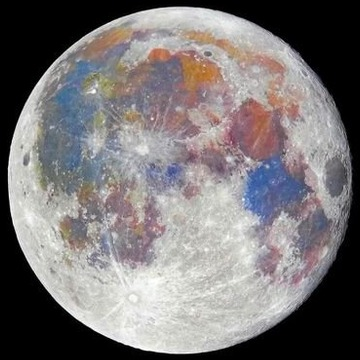
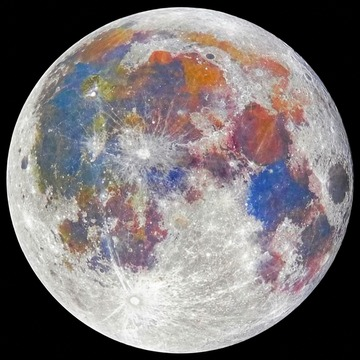
Use the colourful Moon as the starter picture and colour the sidebar knob ring
The starter Moon is replaced by a centred colourful moon; libraries that held the old one get the new one once. The ring on the sidebar knob badge always shows the bar colour.

diff --git a/revo1/screensaver.py b/revo1/screensaver.py
@@ -36,10 +36,12 @@ VIDEO_FPS = 10
 MAX_CLIP_SECONDS = 20
 THUMB_SIZE = 96
 
-# Pictures that come with Revo1, already centred on the round screen. Each is
-# offered once: a new library starts with them, and one that is removed stays
-# removed.
-STARTER_PICTURES = (("Moon", Path(__file__).with_name("assets") / "moon.jpg"),)
+# Pictures that come with Revo1, already centred on the round screen, as
+# (key, name, file). Each key is offered once: a new library starts with them,
+# and one that is removed stays removed. A replaced picture gets a new key so
+# existing libraries are offered it too.
+STARTER_PICTURES = (("moon-colour", "Moon",
+                     Path(__file__).with_name("assets") / "moon.jpg"),)
 
 IMAGE_TYPES = (".jpg", ".jpeg", ".png", ".bmp", ".webp", ".gif", ".tif", ".tiff")
 VIDEO_TYPES = (".mp4", ".mov", ".avi", ".mkv", ".webm", ".m4v", ".wmv")
@@ -271,14 +273,14 @@ class Library:
         if not isinstance(offered, list):
             offered = []
         added = False
-        for name, path in starters:
-            if name in offered:
+        for key, name, path in starters:
+            if key in offered:
                 continue
             try:
                 self.add(path, name=name)
             except (MediaError, OSError):
                 continue
-            offered.append(name)
+            offered.append(key)
             added = True
         if added:
             record.write_text(json.dumps(offered), encoding="utf-8")

diff --git a/revo1/app.py b/revo1/app.py
@@ -805,7 +805,7 @@ class App(DashboardPage, ScreensaverPage, GamesPage, WirelessTab):
 
     def paint_knob_badge(self, image, cx, cy, radius):
         """A miniature of the knob: a light bezel round a dark screen, whose
-        ring lights up while the app is connected to it."""
+        ring always shows the bar colour of the current screen."""
         k = self.kit
         factor = 4
         size = k.px(radius * 2) * factor
@@ -825,8 +825,7 @@ class App(DashboardPage, ScreensaverPage, GamesPage, WirelessTab):
         pad = size / 2 - ring * unit
         box = (pad, pad, size - pad, size - pad)
         draw.arc(box, 135, 405, fill=(0x3A, 0x3A, 0x46), width=round(2.2 * unit))
-        if self.connected:
-            draw.arc(box, 135, 315, fill=ui.rgb(ui.OK_GREEN), width=round(2.2 * unit))
+        draw.arc(box, 135, 315, fill=tuple(self.accent(self.mode)), width=round(2.2 * unit))
         badge = badge.resize((size // factor, size // factor), Image.LANCZOS)
         image.paste(badge, (k.px(cx - radius), k.px(cy - radius)), badge)
 
@@ -841,6 +840,8 @@ class App(DashboardPage, ScreensaverPage, GamesPage, WirelessTab):
     def refresh_nav(self):
         for button in self.nav.values():
             button.refresh()
+        if hasattr(self, "identity"):
+            self.refresh_identity()
 
     # ----- settings actions ---------------------------------------------
 

diff --git a/CHANGELOG.md b/CHANGELOG.md
@@ -8,9 +8,12 @@
   no longer includes the Wi-Fi and TCP/IP stack, and the knob erases the
   network name and password that earlier firmware saved. The app drops its
   saved Wi-Fi network and knob address too.
-- The screensaver library now starts with a built-in **Moon** picture,
-  centred to fill the round screen. Existing libraries get it once; removing
-  it keeps it removed.
+- The screensaver library now starts with a built-in colourful **Moon**
+  picture, centred to fill the round screen. It replaces the earlier moon
+  pictures; existing libraries get it once, and removing it keeps it removed.
+- The ring on the small knob at the top of the sidebar always shows the bar
+  colour: the colour you picked, or the current screen's own colour in the
+  standard style.
 - The knob no longer jumps to Volume whenever the app connects or reconnects
   (starting Revo1, a reinstall, a cable or Bluetooth link): it opens
   its main menu instead. Value updates no longer close a menu opened on the
@@ -60,7 +63,7 @@
 - On the knob (and its preview in the app), Scroll and Zoom show the
   screen's icon in the middle with its name below, like the other screens.
 - The top of the sidebar shows a small knob next to the name, with a ring
-  that lights green while connected. Below the name, an icon and label show
+  in the bar colour. Below the name, an icon and label show
   the link in use: USB cable or Bluetooth.
 - Wireless is now automatic: once the knob is paired, unplugging the cable
   is enough for Revo1 to find it over Bluetooth. The **Use

diff --git a/README.md b/README.md
@@ -170,9 +170,9 @@ powershell -ExecutionPolicy Bypass -File .\scripts\flash-firmware.ps1 -Restore .
 (Use your own backup file name. Keep it: it is the only copy of the stock
 firmware.)
 
-Then start Revo1 from the Start Menu. Once the knob answers, the ring on
-the little knob beside the name turns green, and the line below it shows
-how the knob is linked: **On USB cable** or **On Bluetooth**.
+Then start Revo1 from the Start Menu. The ring on the little knob beside
+the name always shows your bar colour. Once the knob answers, the line
+below it shows how the knob is linked: **On USB cable** or **On Bluetooth**.
 
 ## Using it
 
@@ -244,7 +244,7 @@ in the left sidebar.
   **Shade**, which darkens the picture behind the time (on by default). If
   the time and background are too close, the preview warns **Hard to read**.
   **Pictures** holds your pictures and clips. It starts with a built-in
-  **Moon**, centred to fill the round screen (remove it and it stays
+  colourful **Moon**, centred to fill the round screen (remove it and it stays
   removed); click **Add pictures or videos...** to add more. Pictures are
   cropped around their centre. Hover a thumbnail
   and click the cross to remove it. **Send to knob** copies the collection
